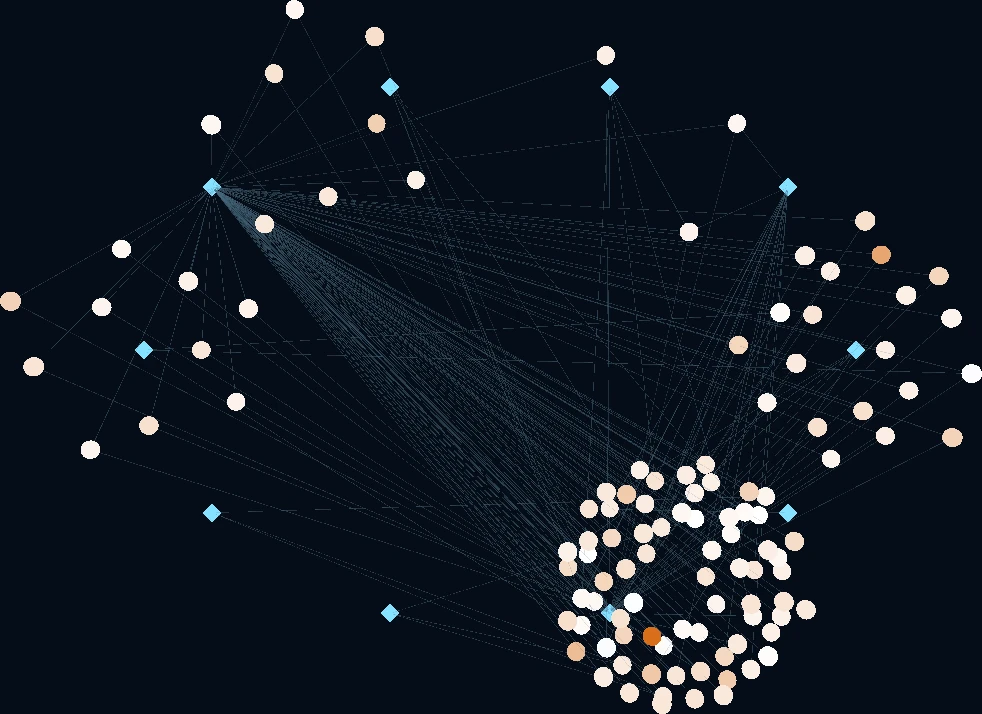
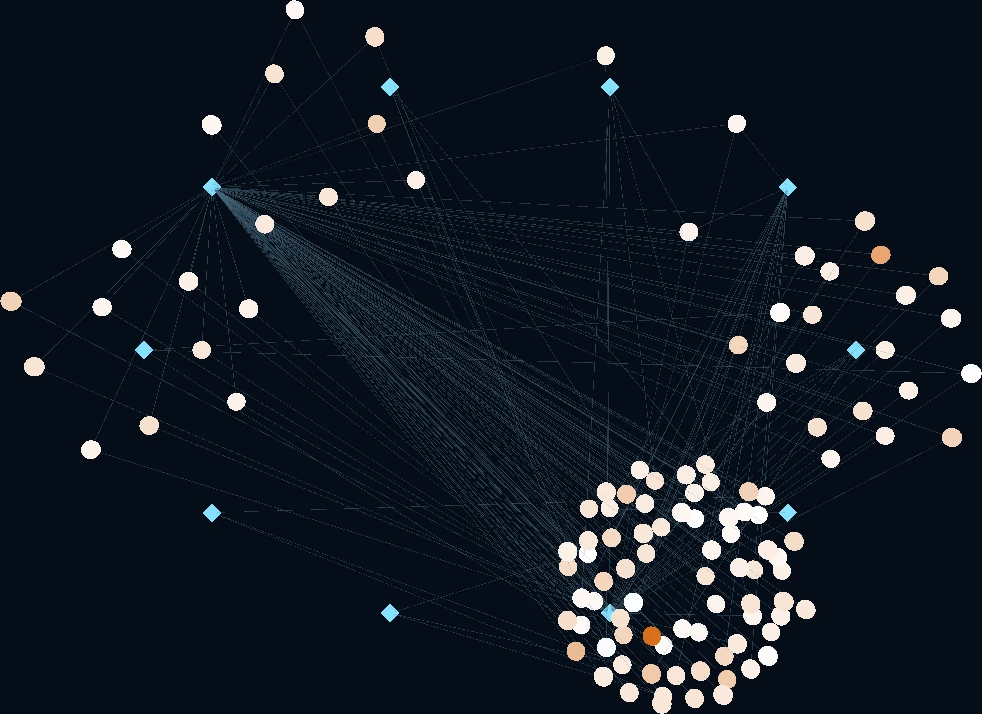
Improve toast contrast and smooth network nodes

diff --git a/explorer/src/app-shell.css b/explorer/src/app-shell.css
@@ -4855,3 +4855,18 @@ body {
 /* Keep feedback above the network without covering the tools dock. */
 #psilocin-app .oxphos-network-3d > .toast { bottom:calc(116px + env(safe-area-inset-bottom)); z-index:20; }
 #psilocin-app .oxphos-3d-topbar .oxphos-3d-status { line-height:1.5; max-width:min(100%, 390px); }
+
+/* Readable feedback against both the atlas and its dark 3D canvas. */
+#psilocin-app .toast {
+  --f7-toast-bg-color:#e8f2fb;
+  --f7-toast-text-color:#152e42;
+  color:#152e42; background-color:#e8f2fb;
+}
+#psilocin-app .toast .toast-text { color:inherit; }
+#psilocin-app .toast .toast-button { color:#174b70; }
+.dark #psilocin-app .toast {
+  --f7-toast-bg-color:#1b3046;
+  --f7-toast-text-color:#f2f8fc;
+  color:#f2f8fc; background-color:#1b3046;
+}
+.dark #psilocin-app .toast .toast-button { color:#c9e6f8; }

diff --git a/explorer/src/components/oxphos-network-3d.js b/explorer/src/components/oxphos-network-3d.js
@@ -1184,7 +1184,7 @@ export function createOxphosNetwork({ onEvidence, initialGene }) {
         .nodeThreeObject((n) => {
           const container = new api.Group();
           if (n.type === "gene") {
-            const geometry = new api.SphereGeometry(4.3, 20, 14),
+            const geometry = new api.SphereGeometry(4.3, 40, 28),
               material = new api.MeshBasicMaterial({
                 color: color(n.effects[day]?.log2FoldChange, snapshot.limit),
               }),
